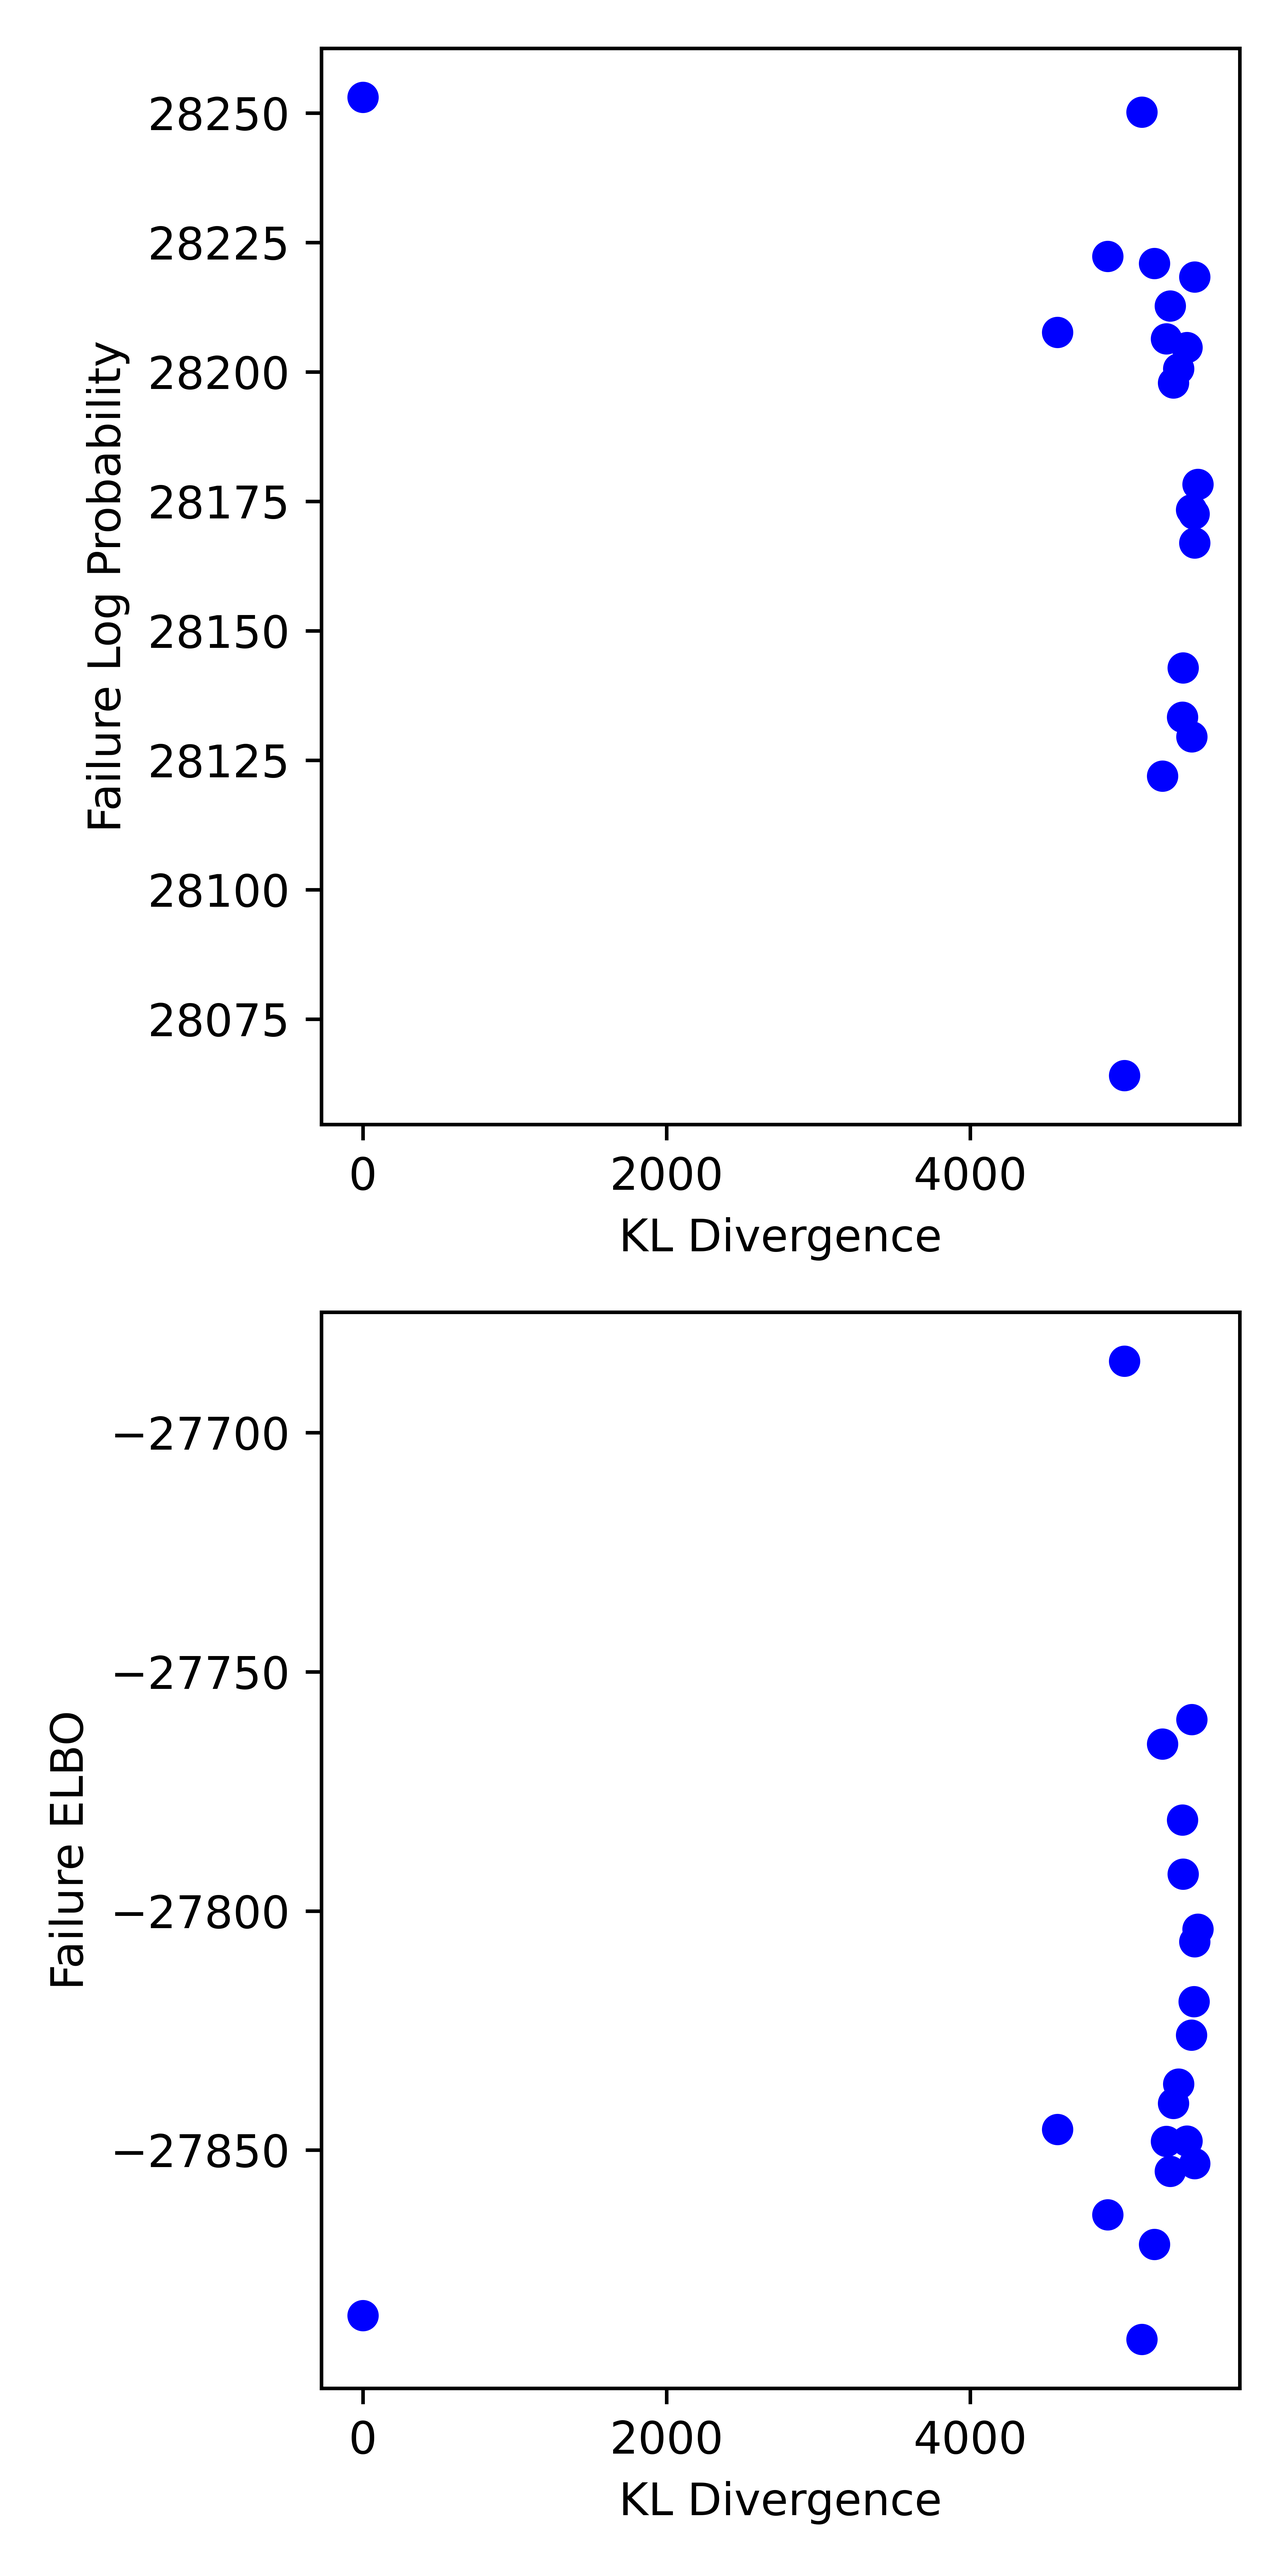
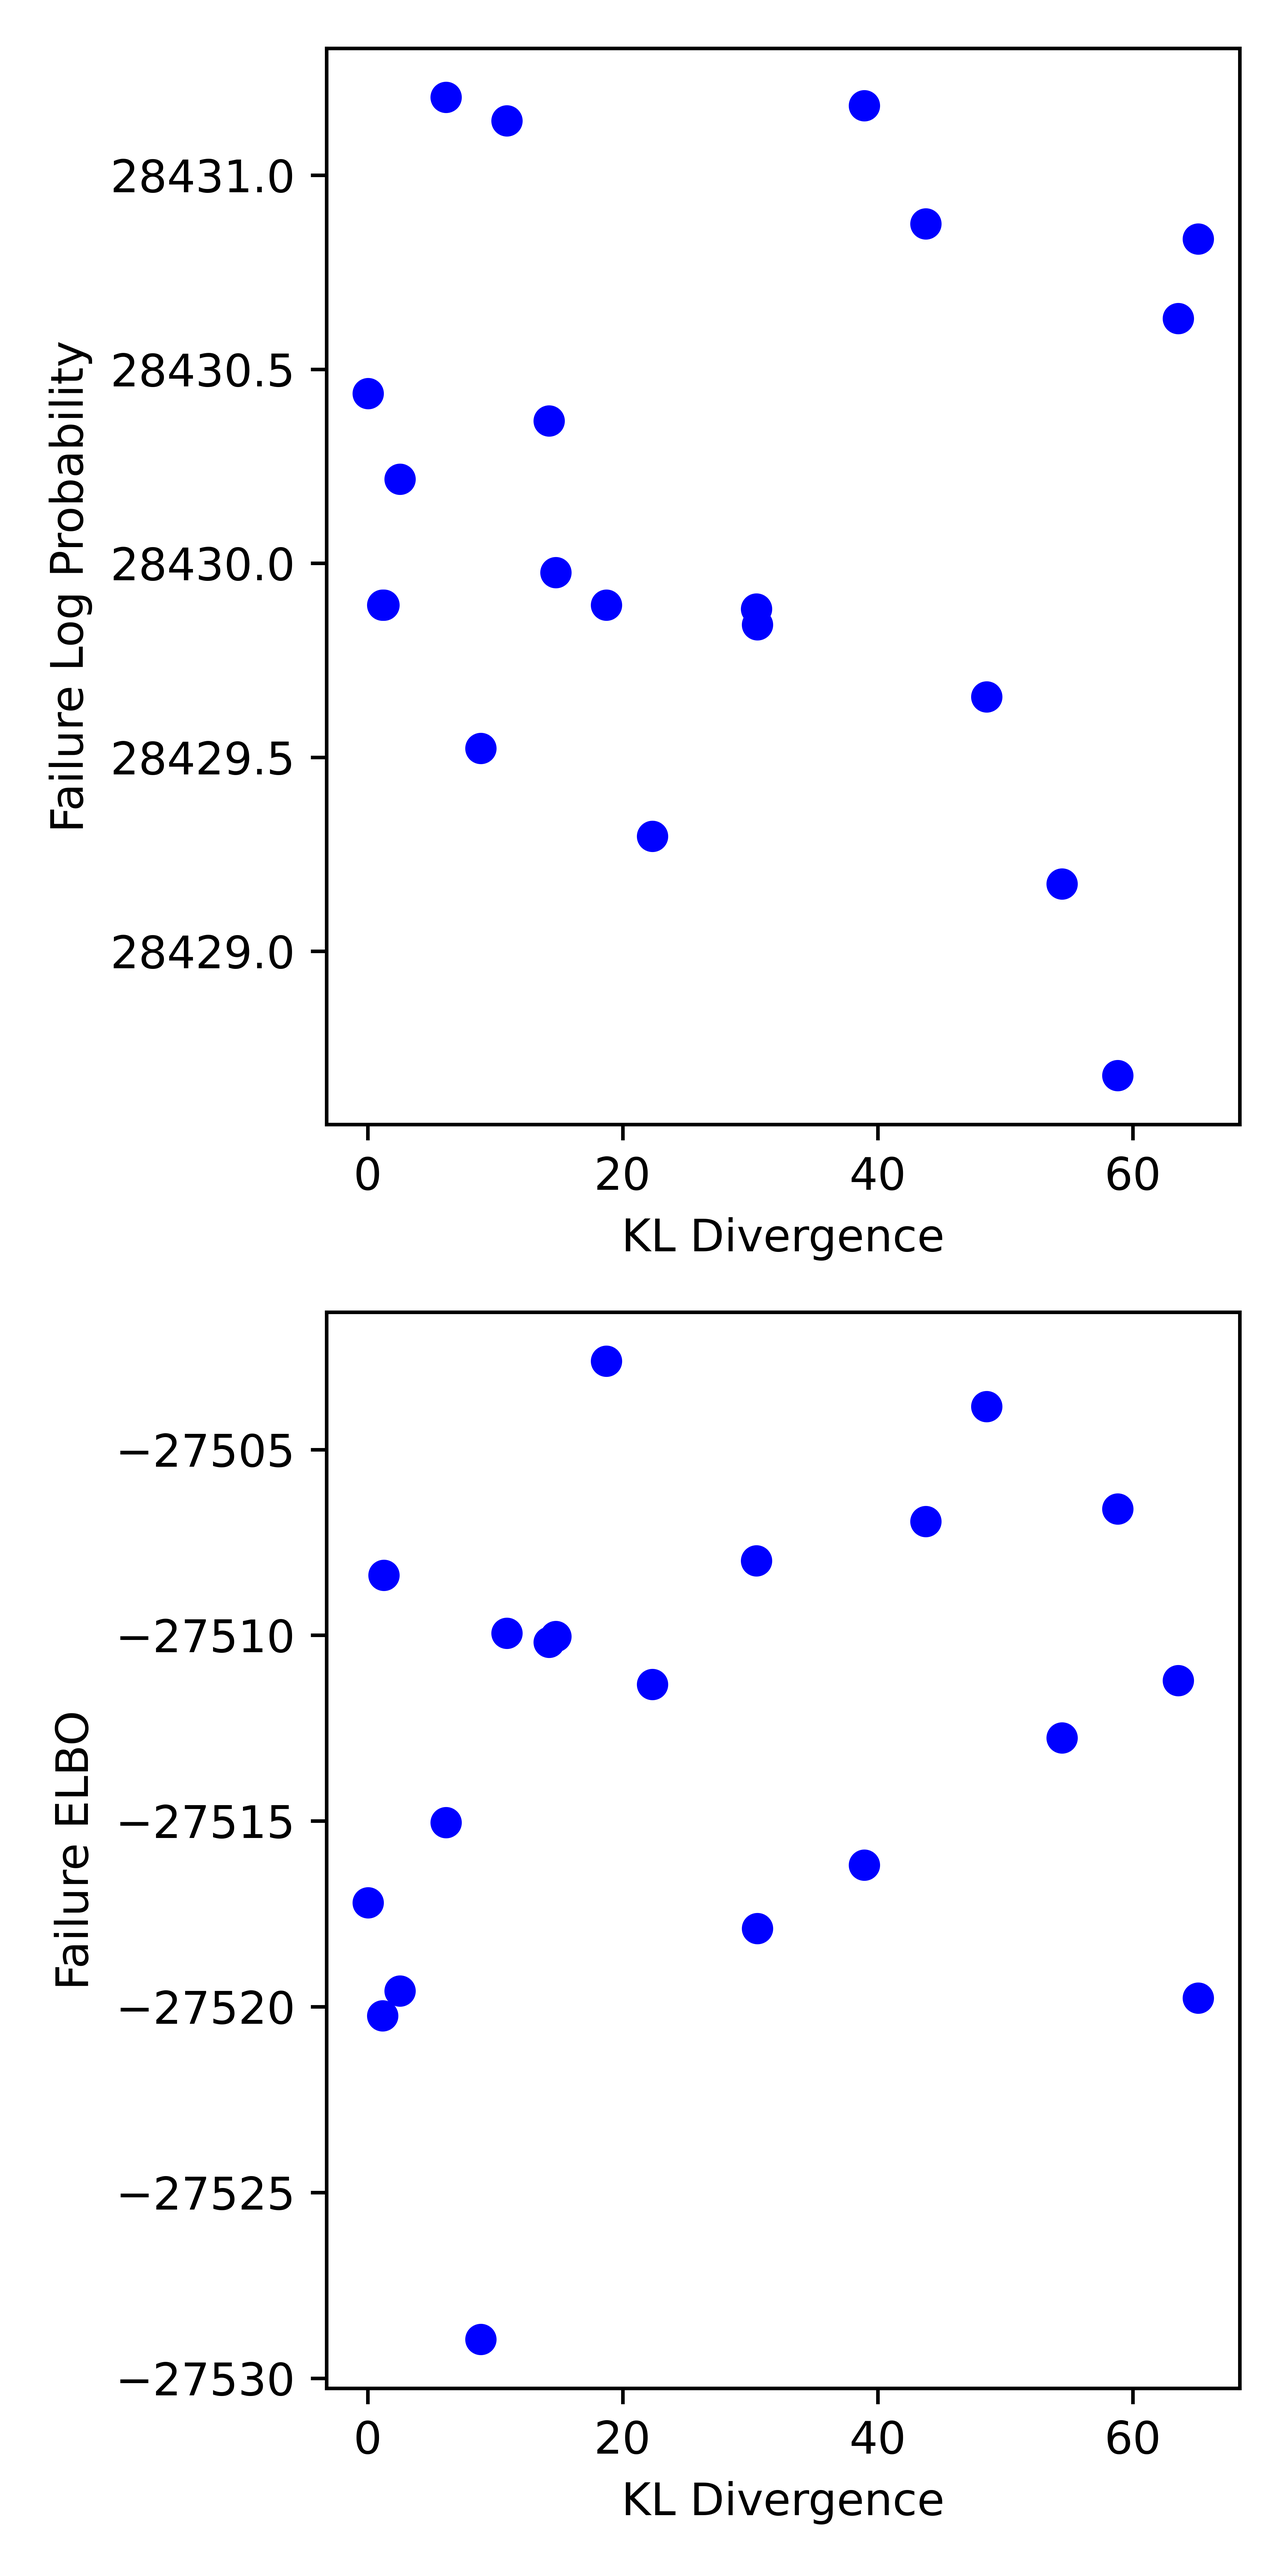
more training

diff --git a/scripts/seismic/train.py b/scripts/seismic/train.py
@@ -174,7 +174,7 @@ def plot_logprob_calibration(
                 N=n_failure,
                 receiver_observations=failure_observations,
             )
-            elbos.append(result[0])
+            elbos.append(-result[0])
             logprobs.append(result[1])
 
         logprobs = torch.stack(logprobs).reshape(-1)
@@ -353,7 +353,7 @@ def train(
             # loss += divergence_weight * failure_divergence
             samples = failure_guide(failure_label).rsample((num_divergence_particles,))
             nominal_logprob = nominal_guide(nominal_label).log_prob(samples).mean()
-            loss -= divergence_weight * nominal_logprob
+            loss -= divergence_weight * nominal_logprob / (NX_COARSE * NY_COARSE)
 
         # Step the optimizer
         loss.backward()
